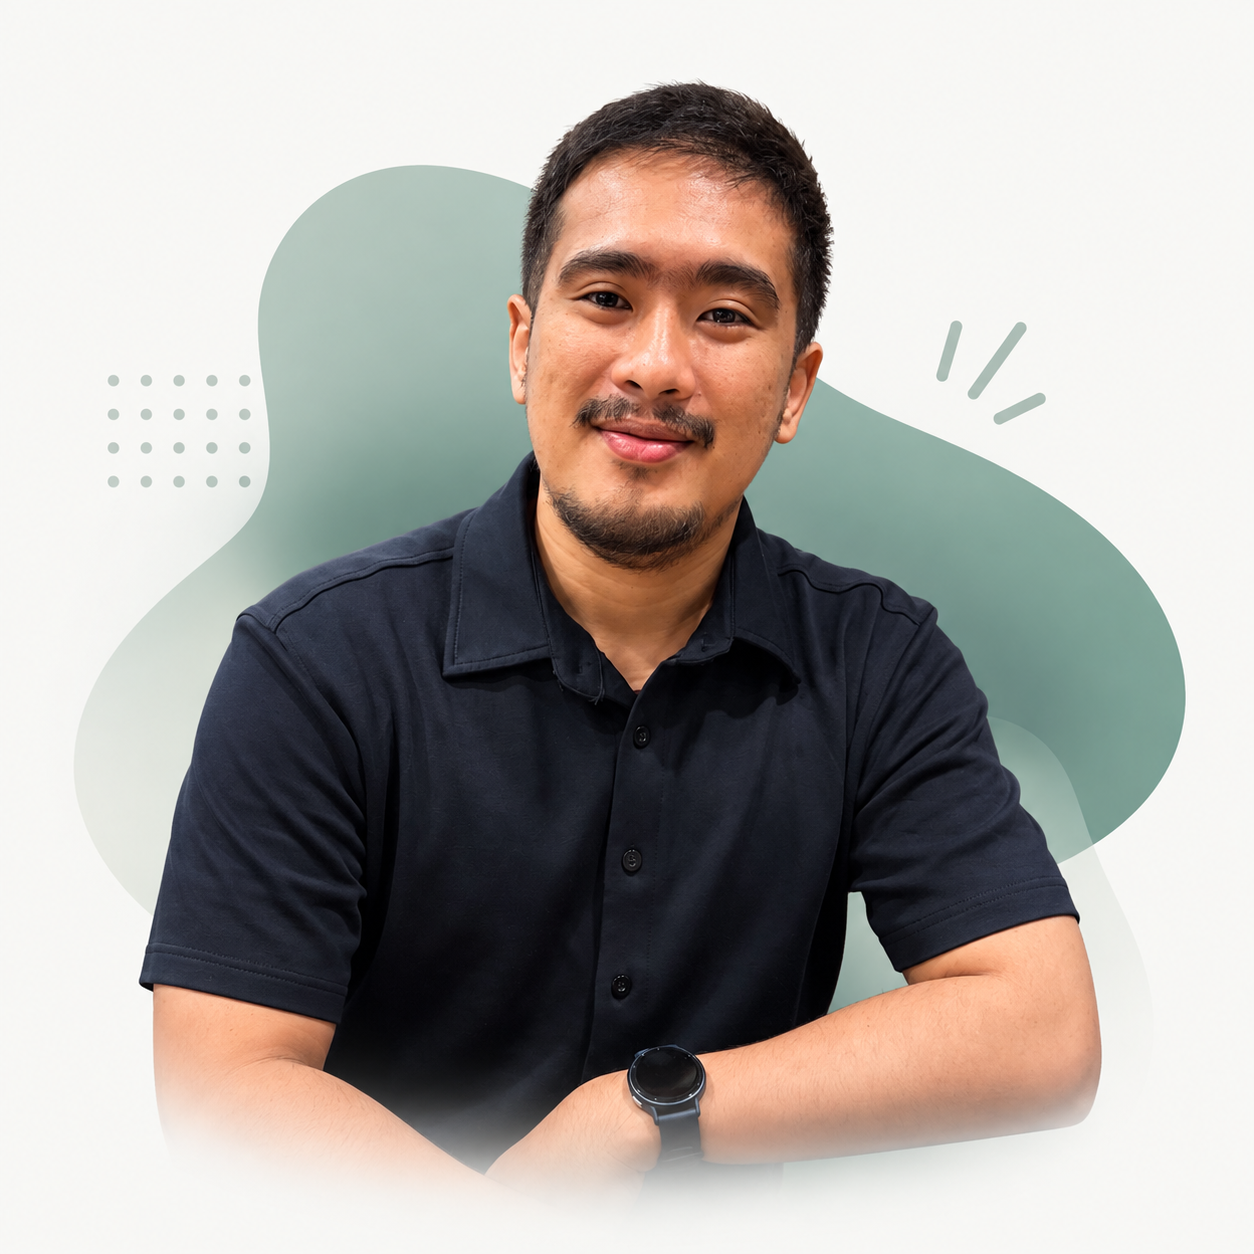
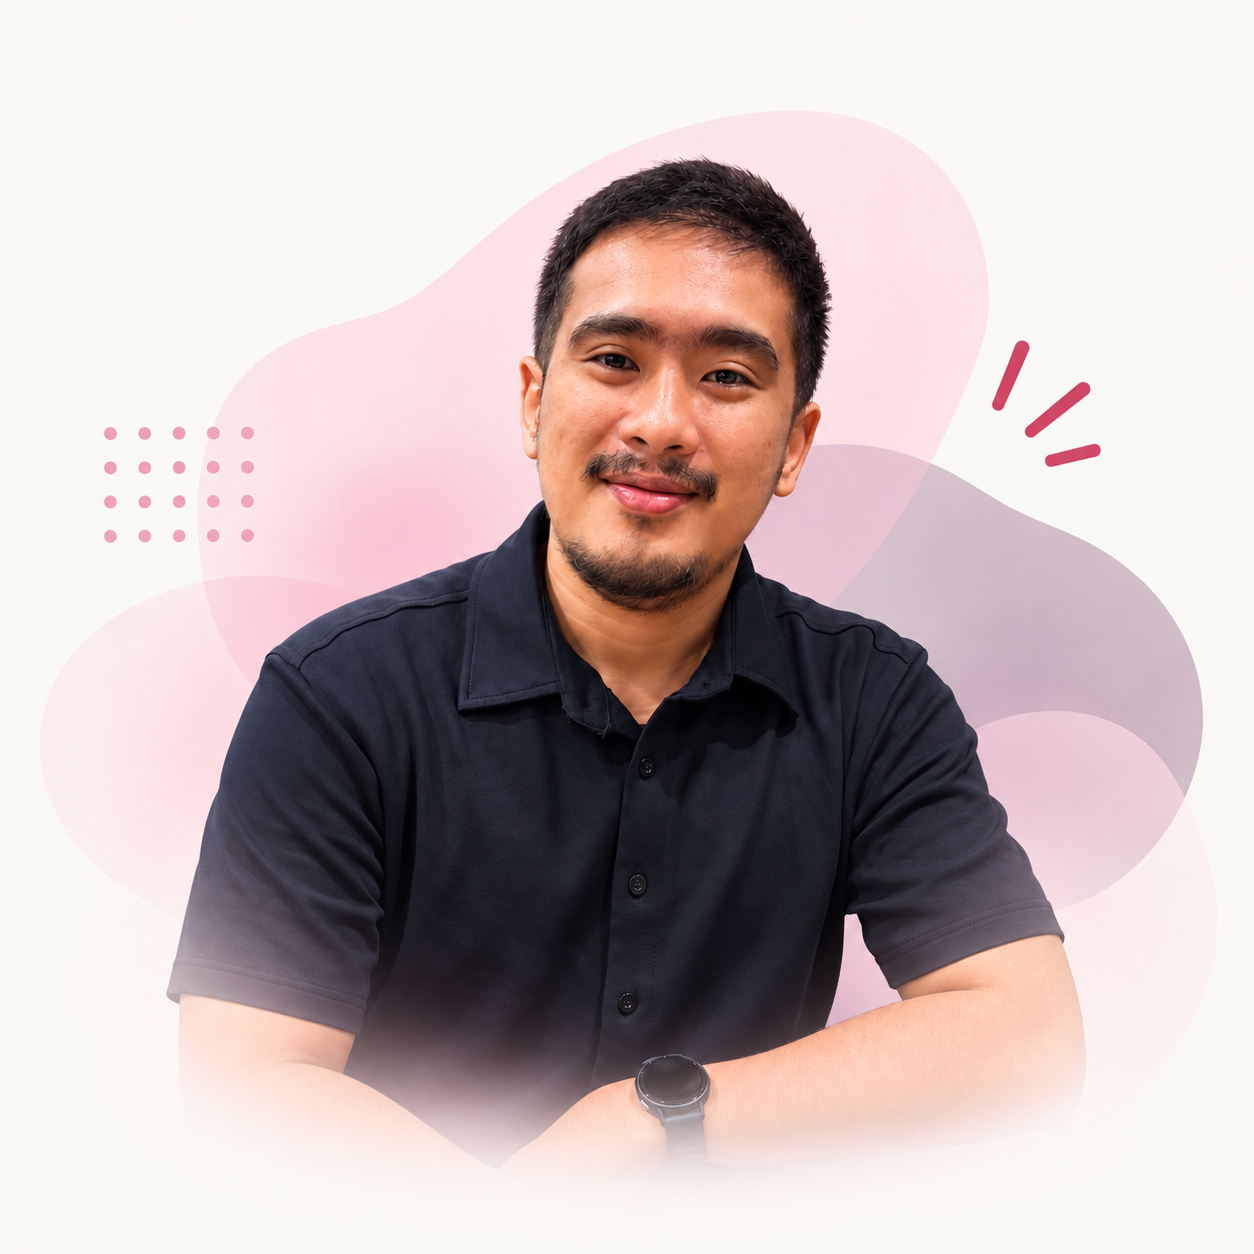
use 2 color tones

diff --git a/index.html b/index.html
@@ -12,17 +12,27 @@
     :root { color-scheme: light; }
     html { scroll-behavior: smooth; }
     body { background:#f7f6f2; color:#252923; font-family: ui-sans-serif,system-ui,-apple-system,BlinkMacSystemFont,"Segoe UI",sans-serif; }
-    .muted { color:#656b63; }
-    .forest { color:#285541; }
-    .line { border-color:#dddcd5; }
+    .muted { color:#6f6469; }
+    .forest { color:#c2185b; }
+    .line { border-color:#e5d9de; }
     .paper { background:#fffefa; }
-    .tag { background:#e8ede5; color:#365744; }
-    .button { background:#285541; color:white; transition:background .15s ease; }
-    .button:hover { background:#193d2d; }
-    .link { text-decoration-color:#91ad9c; text-underline-offset:4px; }
-    .link:hover { color:#285541; }
-    .monogram { background:#e5eae2; color:#285541; }
-    a:focus-visible { outline:2px solid #285541; outline-offset:4px; }
+    .tag { background:#f8e3eb; color:#8f1748; }
+    .button { background:#e91e63; color:white; transition:background .15s ease; }
+    .button:hover { background:#c2185b; }
+    .link { text-decoration-color:#e5a9bd; text-underline-offset:4px; }
+    .link:hover { color:#c2185b; }
+    .monogram { background:#fce4ec; color:#c2185b; }
+    a:focus-visible { outline:2px solid #e91e63; outline-offset:4px; }
+    .plum { color:#5b4b63; }
+    .plum-bg { background:#eee8f0; }
+    .shape-pink, .shape-plum { position:absolute; border-radius:9999px; pointer-events:none; }
+    .shape-pink { width:180px; height:180px; background:#fce4ec; opacity:.7; }
+    .shape-plum { width:130px; height:130px; background:#eee8f0; opacity:.85; }
+    @media (max-width: 640px) {
+      .shape-pink { width:110px; height:110px; }
+      .shape-plum { width:80px; height:80px; }
+    }
+
     @media (prefers-reduced-motion: reduce) { html { scroll-behavior:auto; } .button { transition:none; } }
   </style>
 </head>
@@ -42,7 +52,9 @@
     </header>
 
     <main>
-      <section class="pt-20 pb-20 sm:pt-28 sm:pb-28 border-b line">
+      <section class="relative pt-20 pb-20 sm:pt-28 sm:pb-28 border-b line">
+        <span class="shape-pink" style="right:-70px;top:55px;" aria-hidden="true"></span>
+        <span class="shape-plum" style="right:55px;top:145px;" aria-hidden="true"></span>
         <div class="max-w-3xl">
           <p class="forest text-sm font-semibold tracking-widest uppercase mb-7">Hello, I'm Ashraf <span aria-hidden="true">✳</span></p>
           <h1 class="font-bold tracking-tight leading-tight mb-8" style="font-size:clamp(2.75rem,7vw,5.3rem);letter-spacing:-.055em;">
@@ -64,7 +76,7 @@
         <div class="md:col-span-2">
           <p class="forest text-xs font-bold tracking-widest uppercase mb-4">A little about me</p>
           <h2 class="text-3xl sm:text-4xl font-bold tracking-tight leading-tight">Engineer first.<br>Freelancer sometimes.</h2>
-          <img src="ashraf-portrait.png" alt="Portrait of Ashraf against a soft green background" class="mt-9 rounded-2xl object-cover shadow-sm" style="width:260px;height:260px;object-position:center;" width="260" height="260" loading="lazy">
+          <img src="ashraf-portrait.png" alt="Portrait of Ashraf" class="mt-9 rounded-2xl object-cover shadow-sm" style="width:260px;height:260px;object-position:center;" width="260" height="260" loading="lazy">
         </div>
         <div class="md:col-span-3 text-base sm:text-lg leading-relaxed space-y-5">
           <p>My day job involves investigating production issues and working with Linux servers, web stacks, and the unexpected things that happen when software meets the real world.</p>
@@ -113,7 +125,7 @@
               <div><h3 class="font-semibold text-lg mb-1">Tell me what's happening</h3><p class="muted leading-relaxed">A short description, the symptoms, and anything you've already tried are plenty to start with.</p></div>
             </div>
             <div class="flex gap-5">
-              <span class="forest font-bold text-sm pt-1">02</span>
+              <span class="plum font-bold text-sm pt-1">02</span>
               <div><h3 class="font-semibold text-lg mb-1">We'll agree on the scope</h3><p class="muted leading-relaxed">I'll let you know if it's something I can take on, and we'll agree on the work before I start.</p></div>
             </div>
             <div class="flex gap-5">
@@ -127,15 +139,35 @@
       <section id="projects" class="py-20 sm:py-24 border-b line">
         <div class="max-w-2xl mb-10">
           <p class="forest text-xs font-bold tracking-widest uppercase mb-4">Pet projects</p>
-          <h2 class="text-3xl sm:text-4xl font-bold tracking-tight mb-5">Small tools I've built.</h2>
+          <h2 class="text-3xl sm:text-4xl font-bold tracking-tight mb-5">Small stuff I've built.</h2>
           <p class="muted text-lg leading-relaxed">A few practical experiments and calculators.</p>
         </div>
-        <article class="paper rounded-xl border line p-7 sm:p-9">
-          <span class="inline-block tag rounded-full px-3 py-1 text-xs font-semibold mb-5">Investment tool</span>
-          <h3 class="text-2xl font-semibold mb-3">ASB Financing Calculator</h3>
-          <p class="muted leading-relaxed max-w-2xl mb-6">Compare ASB financing with investing the same out-of-pocket payments into ordinary ASB. Explore projected wealth, costs, annualized returns, and a year-by-year breakdown.</p>
-          <a class="button inline-flex items-center justify-center rounded-lg px-5 py-3 font-semibold text-sm" href="https://asbf_calculator.ashrafkamarudin.com/">Open calculator ↗</a>
-        </article>
+
+        <div class="grid grid-cols-1 md:grid-cols-2 gap-4 sm:gap-6">
+          <article class="paper rounded-xl border line p-7 sm:p-9 flex flex-col">
+            <span class="inline-block self-start tag rounded-full px-3 py-1 text-xs font-semibold mb-5">Investment tool</span>
+            <h3 class="text-2xl font-semibold mb-3">ASB Financing Calculator</h3>
+            <p class="muted leading-relaxed max-w-2xl mb-6 flex-grow">
+              Compare ASB financing with investing the same out-of-pocket payments into ordinary ASB.
+              Explore projected wealth, costs, annualized returns, and a year-by-year breakdown.
+            </p>
+            <a class="button inline-flex items-center justify-center self-start rounded-lg px-5 py-3 font-semibold text-sm mt-auto" href="https://asbf_calculator.ashrafkamarudin.com/">
+              Open calculator ↗
+            </a>
+          </article>
+
+          <article class="paper rounded-xl border line p-7 sm:p-9 flex flex-col">
+            <span class="inline-block self-start rounded-full px-3 py-1 text-xs font-semibold mb-5 plum-bg plum">Badminton simulator</span>
+            <h3 class="text-2xl font-semibold mb-3">Shuttle Tactics</h3>
+            <p class="muted leading-relaxed max-w-2xl mb-6 flex-grow">
+              A small positioning lab for exploring badminton tactics. Choose your shot,
+              recovery position and anticipation, then see how your decisions shape the rally.
+            </p>
+            <a class="button inline-flex items-center justify-center self-start rounded-lg px-5 py-3 font-semibold text-sm mt-auto" href="https://shuttletactics.ashrafkamarudin.com/">
+              Open Shuttle Tactics ↗
+            </a>
+          </article>
+        </div>
       </section>
 
       <section id="contact" class="py-20 sm:py-28">
